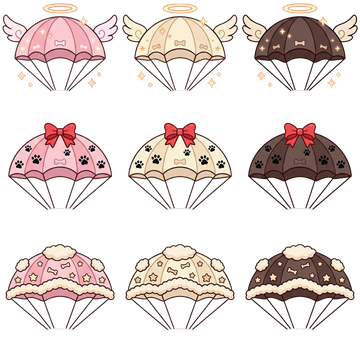
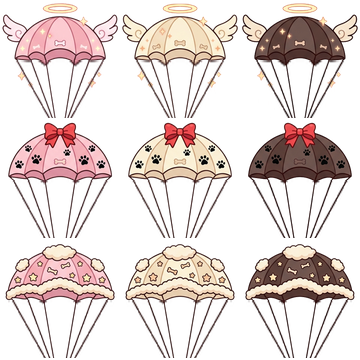
feat: complete dog theme visual refinements, UI typography and crown animation

diff --git a/style.css b/style.css
@@ -1,3 +1,5 @@
+@import url('https://fonts.googleapis.com/css2?family=Baloo+2:wght@400;700&family=Righteous&display=swap');
+
 body {
   margin: 0;
   padding: 0;
@@ -354,15 +356,16 @@ body.theme-dog .winner-crown {
   display: block;
   background-image: url(resources/images/winner_bone.png);
   background-repeat: no-repeat;
+  background-position: center center;
   background-size: contain;
-  width: 47px;
+  width: 48px; /* 36 (left) + 48 (width) + 36 (right) = 120px tam orta */
   height: 40px;
   position: absolute;
   left: 36px;
   top: 15px; /* Puanı baltalamaması için yukarı, tam score üstüne çıkarıldı */
   z-index: 15; /* Diğer elementlerin önüne geçmesi için yüksek tutuldu */
   opacity: 0.95;
-  transform-origin: 50% 50%; /* Referans noktası tam orta kısım olacak şekilde ayarlandı */
+  transform-origin: 50% 100%; /* Referans noktası alt-orta yapıldı, alttan sallanacak */
   animation: crownSwing 3s ease-in-out infinite; /* Hafif ve premium sallantı animasyonu */
 }
 
@@ -374,27 +377,30 @@ body.theme-dog .winner-crown.ghost {
  * is associated with a dropper while it's falling, or while it's marked as a
  * winner on the target. */
 .nickname {
-  font-family: 'Righteous', cursive;
+  font-family: 'Baloo 2', 'Righteous', cursive;
+  font-weight: 700;
   color: #ffcbdb; /* Senin pemben */
-  font-size: 16px;
+  font-size: 18px; /* Baloo 2 için boyut uygun */
   text-shadow: 2px 2px 0px #674746; /* Luna Koyu kahve gölge */
   text-align: center;
   vertical-align: middle;
   line-height: 24px;
-  height: 26px;
+  height: 34px; /* Padding eklendiği için yükseklik arttırıldı */
   width: 350px;
   
-  /* Modern Soft Glassmorphism */
+  /* Transparent Text-Only Mode */
   max-width: 180px;
   margin: 0 auto;
-  background: rgba(103, 71, 70, 0.75); /* Luna Koyu kahve arka plan */
-  backdrop-filter: blur(4px);
-  -webkit-backdrop-filter: blur(4px);
-  border: 1px solid #ffcbdb;
-  border-radius: 20px;
-  box-shadow: 0 4px 10px rgba(103, 71, 70, 0.3);
+  background: transparent;
+  border: none;
+  box-shadow: none;
+  /* Stroke yerine dışarı taşan temiz solid (katı) gölgeler, rengi bozmaz */
+  text-shadow: 
+    -2px -2px 0 #4A2E2B, 0 -2px 0 #4A2E2B, 2px -2px 0 #4A2E2B, 2px 0 0 #4A2E2B, 
+     2px  2px 0 #4A2E2B, 0  2px 0 #4A2E2B, -2px 2px 0 #4A2E2B, -2px 0 0 #4A2E2B,
+     0px 4px 4px rgba(0,0,0,0.6);
   box-sizing: border-box;
-  padding: 0 10px;
+  padding: 4px 10px; /* Shadow'un kesilmesini önlemek için boşluk eklendi */
   overflow: hidden;
   text-overflow: ellipsis;
   white-space: nowrap;
@@ -403,23 +409,28 @@ body.theme-dog .winner-crown.ghost {
 /* This class is applied to the dic that is used to hold the visible score that
  * a dropper gets when it lands sucessfully on the target. */
 .score {
-  font-family: 'Righteous', cursive;
+  font-family: 'Baloo 2', 'Righteous', cursive;
+  font-weight: 700;
   color: #FFD9D1; /* Açık pastel krem */
-  font-size: 13px;
+  font-size: 15px;
   text-shadow: 1px 1px 0px #674746;
   text-align: center;
   vertical-align: middle;
   line-height: 18px;
-  height: 20px;
+  height: 28px;
   width: 80px;
   
-  /* Modern Soft Glassmorphism */
+  /* Transparent Text-Only Mode */
   max-width: 80px;
   margin: 0 auto;
-  background: rgba(103, 71, 70, 0.9);
-  border: 1px solid #fbc0b4;
-  border-radius: 10px;
+  background: transparent;
+  border: none;
+  text-shadow: 
+    -2px -2px 0 #4A2E2B, 0 -2px 0 #4A2E2B, 2px -2px 0 #4A2E2B, 2px 0 0 #4A2E2B, 
+     2px  2px 0 #4A2E2B, 0  2px 0 #4A2E2B, -2px 2px 0 #4A2E2B, -2px 0 0 #4A2E2B,
+     0px 4px 4px rgba(0,0,0,0.6);
   box-sizing: border-box;
+  padding: 4px 10px;
 }
 
 /* ==========================================================================
@@ -494,11 +505,9 @@ body.theme-dog .winner-crown.ghost {
   top: 20px;
   left: 50%;
   transform: translateX(-50%);
-  background: rgba(103, 71, 70, 0.85); /* Luna koyu kahve */
-  backdrop-filter: blur(8px);
-  border: 2px solid #ffcbdb; /* Senin pemben */
-  box-shadow: 0 0 25px rgba(180, 134, 125, 0.4);
-  border-radius: 16px;
+  background: transparent;
+  border: none;
+  box-shadow: none;
   padding: 14px 24px;
   width: 450px;
   z-index: 1000;
@@ -516,8 +525,9 @@ body.theme-dog .winner-crown.ghost {
 }
 
 .lobby-title {
-  font-family: 'Righteous', cursive;
-  font-size: 20px;
+  font-family: 'Baloo 2', 'Righteous', cursive;
+  font-weight: 700;
+  font-size: 22px;
   color: #ffcbdb; /* Senin pemben */
   text-shadow: 2px 2px 0px #674746;
   margin: 0;
@@ -550,6 +560,10 @@ body.theme-dog .winner-crown.ghost {
   justify-content: space-between;
   width: 100%;
   font-weight: bold;
+  text-shadow: 
+    -1px -1px 0 #4A2E2B, 0 -1px 0 #4A2E2B, 1px -1px 0 #4A2E2B, 1px 0 0 #4A2E2B, 
+     1px  1px 0 #4A2E2B, 0  1px 0 #4A2E2B, -1px 1px 0 #4A2E2B, -1px 0 0 #4A2E2B,
+     0px 2px 2px rgba(0,0,0,0.5);
 }
 
 .lobby-participants {
@@ -638,11 +652,9 @@ body.theme-dog .winner-crown.ghost {
   position: absolute;
   top: 20px;
   right: 20px;
-  background: rgba(103, 71, 70, 0.85); /* Dark cocoa matching lobby bar */
-  backdrop-filter: blur(8px);
-  border: 2px solid #ffcbdb; /* Soft pink border */
-  box-shadow: 0 0 25px rgba(180, 134, 125, 0.4);
-  border-radius: 16px;
+  background: transparent;
+  border: none;
+  box-shadow: none;
   padding: 14px;
   width: 250px;
   z-index: 1000;
@@ -667,8 +679,9 @@ body.theme-dog .winner-crown.ghost {
 }
 
 .leaderboard-header {
-  font-family: 'Righteous', cursive;
-  font-size: 14px;
+  font-family: 'Baloo 2', 'Righteous', cursive;
+  font-weight: 700;
+  font-size: 16px;
   color: #ffcbdb;
   text-shadow: 1px 1px 0px #674746;
   text-align: center;
@@ -699,9 +712,9 @@ body.theme-dog .winner-crown.ghost {
   display: flex;
   align-items: center;
   justify-content: space-between;
-  background: rgba(255, 255, 255, 0.06);
-  border: 1px solid rgba(255, 203, 219, 0.15);
-  border-radius: 8px;
+  background: transparent;
+  border: none;
+  border-bottom: 1px solid rgba(255, 203, 219, 0.3);
   padding: 6px 10px;
   transition: all 0.3s ease;
 }
@@ -713,14 +726,15 @@ body.theme-dog .winner-crown.ghost {
 }
 
 .leaderboard-row.rank-first {
-  background: rgba(255, 203, 219, 0.15); /* Highlight color */
-  border-color: rgba(255, 203, 219, 0.5);
-  box-shadow: 0 0 10px rgba(255, 203, 219, 0.2);
+  background: transparent; /* Highlight color */
+  border-color: rgba(255, 203, 219, 0.8);
+  box-shadow: none;
 }
 
 .leaderboard-rank {
-  font-family: 'Righteous', cursive;
-  font-size: 11px;
+  font-family: 'Baloo 2', 'Righteous', cursive;
+  font-weight: 700;
+  font-size: 13px;
   background: #b4867d; /* Soft dark peach */
   color: white;
   border-radius: 50%;
@@ -759,6 +773,9 @@ body.theme-dog .winner-crown.ghost {
   white-space: nowrap;
   overflow: hidden;
   text-overflow: ellipsis;
+  text-shadow: 
+    -1px -1px 0 #4A2E2B, 0 -1px 0 #4A2E2B, 1px -1px 0 #4A2E2B, 1px 0 0 #4A2E2B, 
+     1px  1px 0 #4A2E2B, 0  1px 0 #4A2E2B, -1px 1px 0 #4A2E2B, -1px 0 0 #4A2E2B;
 }
 
 .rank-first .leaderboard-name {
@@ -766,12 +783,13 @@ body.theme-dog .winner-crown.ghost {
 }
 
 .leaderboard-score {
-  font-family: 'Righteous', cursive;
-  font-size: 11px;
+  font-family: 'Baloo 2', 'Righteous', cursive;
+  font-weight: 700;
+  font-size: 14px;
   color: #ffcbdb;
-  background: rgba(103, 71, 70, 0.9);
+  background: transparent;
   padding: 2px 6px;
-  border-radius: 4px;
-  border: 1px solid rgba(255, 203, 219, 0.2);
+  border: none;
+  text-shadow: 1px 1px 0px #674746;
   flex-shrink: 0;
 }

diff --git a/code.js b/code.js
@@ -385,20 +385,20 @@ class ParachuteDropper extends SpriteContainer {
     // parachute. It's horizontally centered and vertically 1/4 of it's own height
     // off the bottom, so that it overlaps the place where the parachute chords are.
     this.emote.setPos((parachuteSheet.spriteW / 2) - (emoteSheet.spriteW / 2),
-                       parachuteSheet.spriteH - Math.round(emoteSheet.spriteH / 4));
+                       parachuteSheet.spriteH - Math.round(emoteSheet.spriteH / 4) - 6);
 
     // Initialize the box that will store the name of this dropper; it should be
     // centered in the overall dropper.
     this.nameBox.setPos(
       (this.element.clientWidth / 2) - (this.nameBox.element.clientWidth / 2),
-      this.parachute.height * 0.666
+      (this.parachute.height * 0.666) - 6
     );
 
     // Like the name box, initialize the score box. The position is centered and
     // above the name, but has no initial value and will be populated later.
     this.scoreBox.setPos(
       (this.element.clientWidth / 2) - (this.scoreBox.element.clientWidth / 2),
-      this.parachute.height * 0.5
+      (this.parachute.height * 0.5) - 6
     );
 
 
@@ -649,7 +649,7 @@ class ParachuteDropper extends SpriteContainer {
 
     // Trigger visual landing impact splash
     const emoteX = this.x + this.emote.x;
-    engine.spawnImpact(emoteX + this.emote.width / 2, this.container.clientHeight - (0.25 * this.target.height));
+    engine.spawnImpact(emoteX + this.emote.width / 2, this.container.clientHeight - (0.18 * this.target.height));
 
     // Now that we have landed, we should no longer sway, and our parachute
     // should no longer be visible.
@@ -713,12 +713,12 @@ class ParachuteDropper extends SpriteContainer {
       this.xSpeed = -1 * this.xSpeed;
 
     // When we touch down, indicate that we've landed so that we stop updating,
-    if (emoteY >= this.container.clientHeight - this.emote.height - (0.25 * this.target.height)) {
+    if (emoteY >= this.container.clientHeight - this.emote.height - (0.18 * this.target.height)) {
       this.land(deltaT);
 
       // In order to be considered a winner, the emote's center must land
       // within the safe padding boundaries of the target dog bed.
-      const padding = 30;
+      const padding = 10;
       const emoteMidX = emoteX + this.emote.width / 2;
       if (emoteMidX >= this.target.x + padding && emoteMidX <= this.target.x + this.target.width - padding) {
         this.handleWin();
@@ -807,7 +807,7 @@ class ParachuteDropper extends SpriteContainer {
 
     // The maximum possible distance apart that the emote and the center of the
     // target can be under the new 30px safety padded boundary.
-    const padding = 30;
+    const padding = 10;
     const maxDist = (this.target.width / 2) - padding;
 
     // Calculate the score as a percentage of how far apart the two values are
